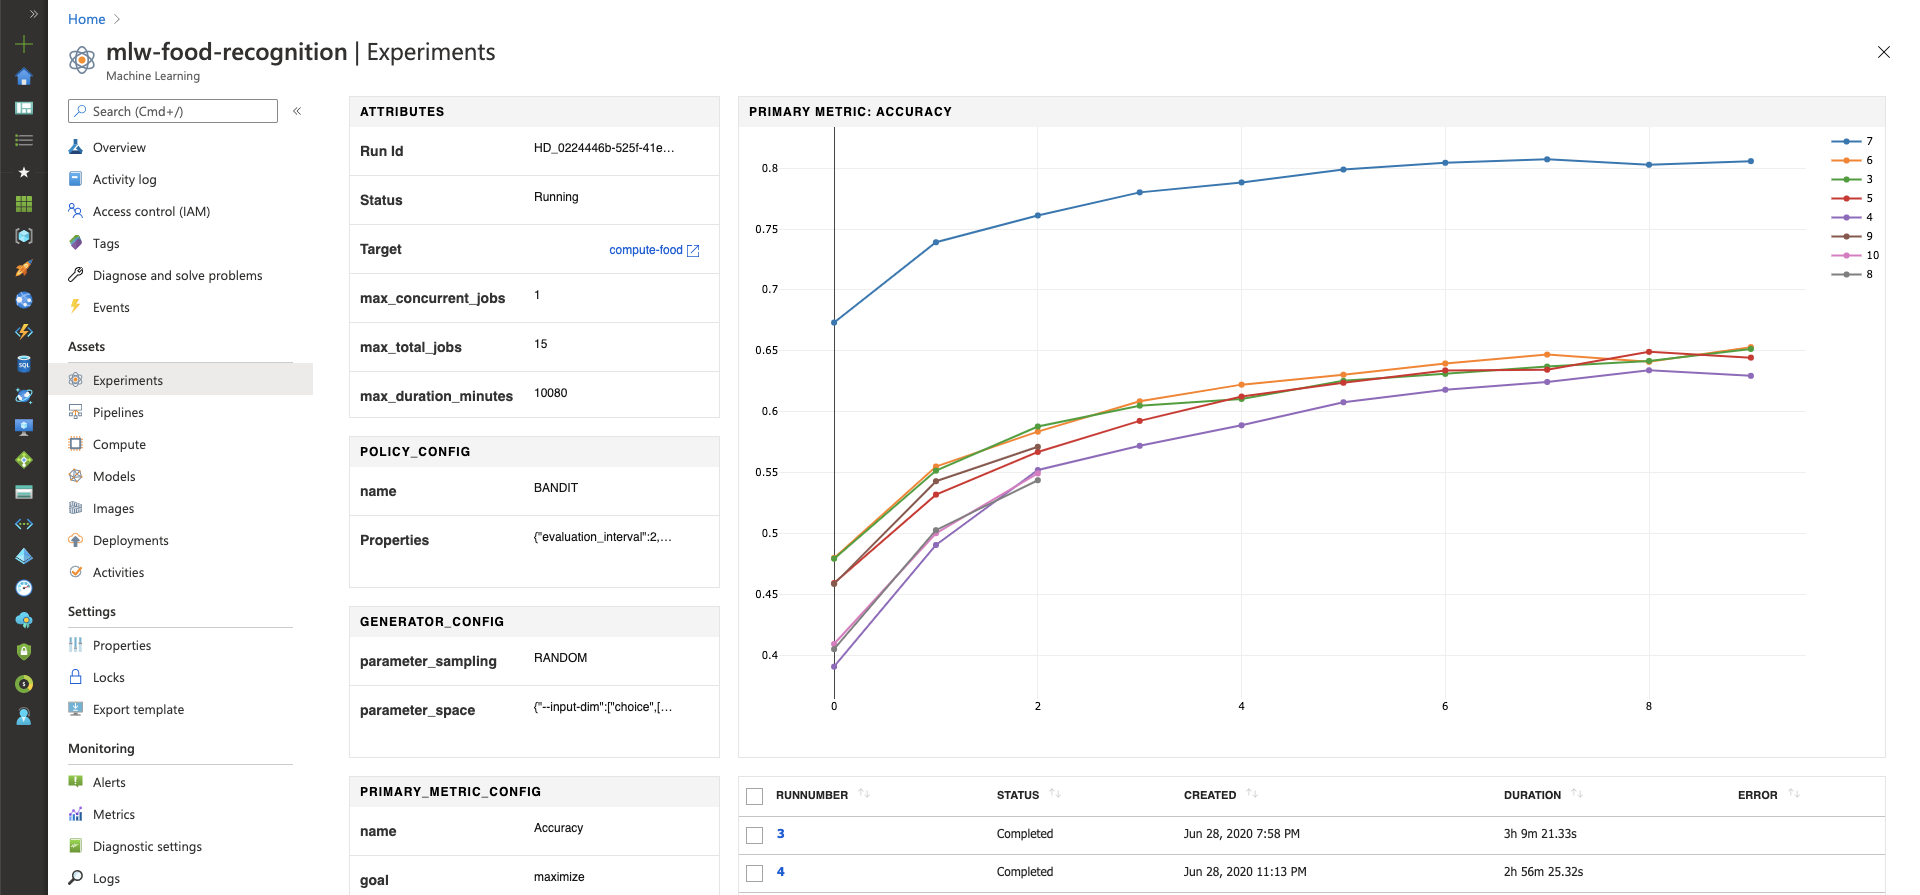
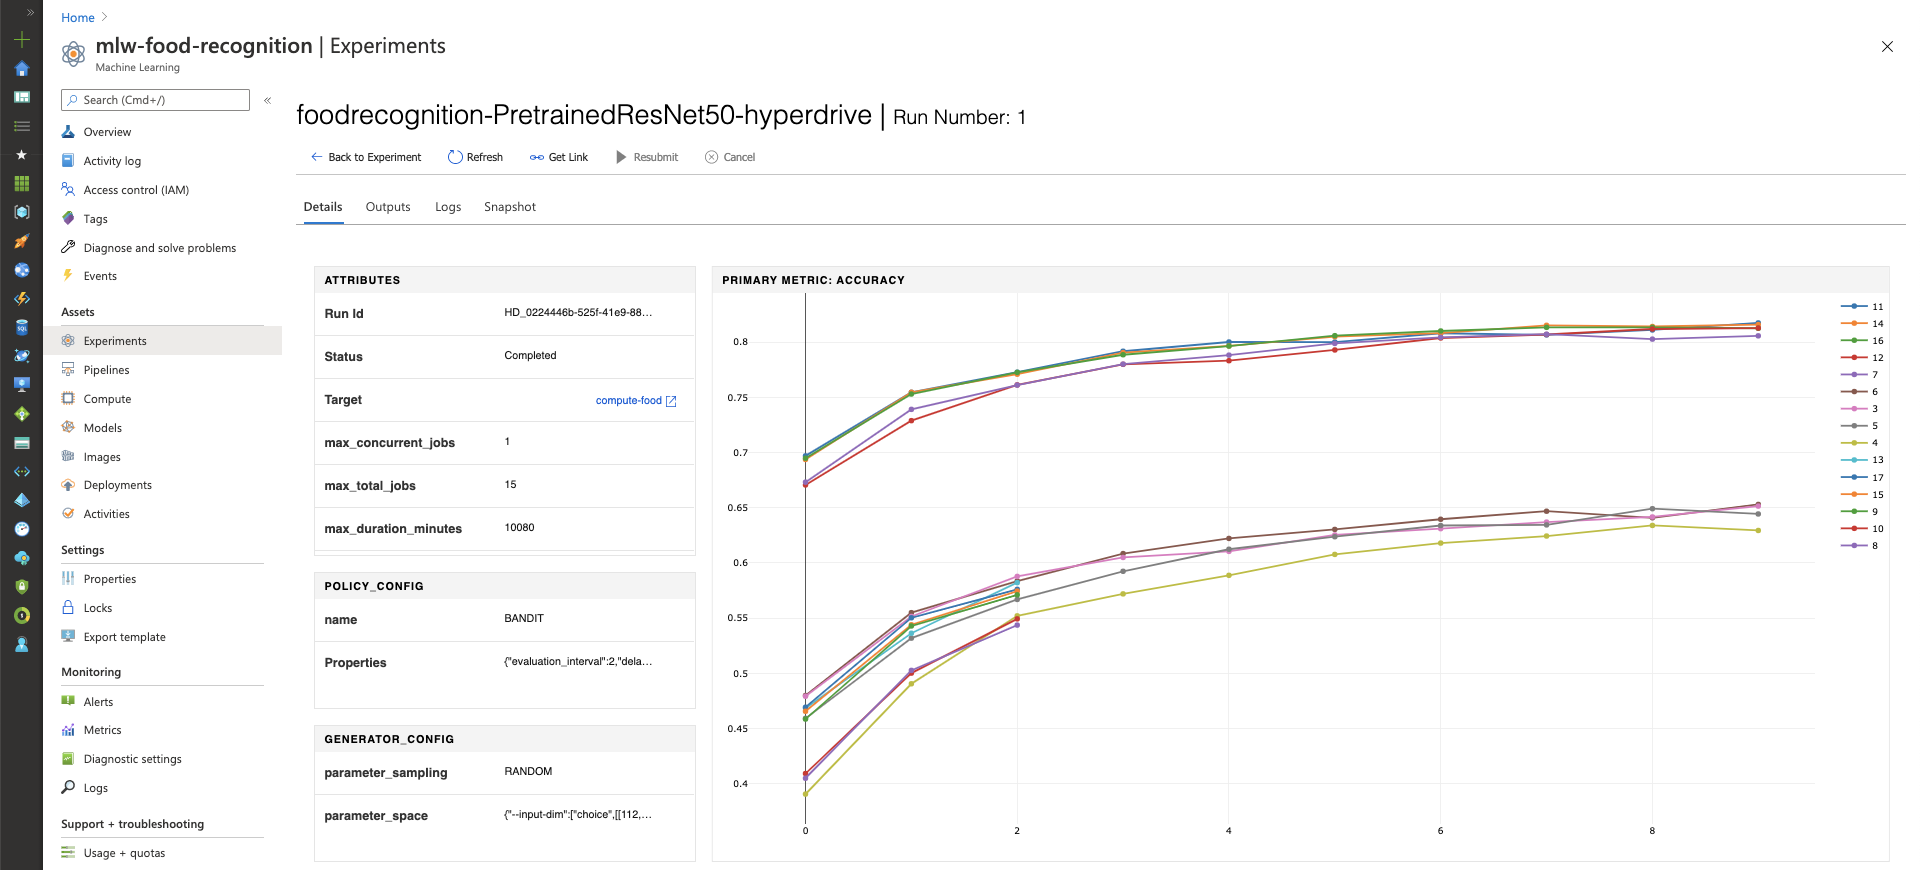
README.md update

diff --git a/src/config.py b/src/config.py
@@ -58,7 +58,7 @@ class ModelConfig:
         "dropout": True,
         "dropout_begin": 0.2,
         "dropout_max": 0.5,
-        "final_average_pooling": False,
+        "final_average_pooling": True,
         "depth": 2,
     }
 

diff --git a/README.md b/README.md
@@ -137,6 +137,13 @@ Endpoint to launch an experiment on AzureML. <br>
 Required configuration read from [```src/config.py```](src/config.py) file, 
 as well as the entry training script (default: [```src/classification/training.py```](src/classification/training.py)).
 
+#### Regular experiment
+
+If the configuration parameter ```hyperdrive``` is set to False, a regular training experiment is launched, with the hyperparameters fixed in [```src/config.py```](src/config.py).
+The underlying TensorFlow model will be saved inside the experiment run scope.
+
+<img src="/images/experiment.png"  width="100%" height="100%"> <br>
+
 #### HyperDrive experiment
 
 If the configuration parameter ```hyperdrive``` is set to True, an HyperDrive hyperparameter search will be performed. <br>
@@ -146,21 +153,24 @@ Several major hyperparameters can thus be tuned automatically, here is a non-exh
 - the number of additional dense layers
 - ...
 
+Here is an exemple with 15 differently parametrized jobs:
+
 <img src="/images/hyperdrive.png"  width="100%" height="100%"> <br>
+<img src="/images/hyperdrive_metrics.png"  width="100%" height="100%"> <br>
 
-#### Regular experiment
-
-If the configuration parameter ```hyperdrive``` is set to False, a regular training experiment is launched, with the hyperparameters fixed in [```src/config.py```](src/config.py).
-The underlying TensorFlow model will be saved inside the 
-
-<img src="/images/experiment.png"  width="100%" height="100%"> <br>
+We can then choose our best run so far according to the primary metric we wanted to maximize:
 <img src="/images/metrics.png"  width="100%" height="100%"> <br>
 
-We manage to have a final test accuracy of **81.18%**, and **84.25%** using Test Time Augmentation (TTA). <br>
+We manage to have a final test accuracy of **81.75%**, and **84.37%** using Test Time Augmentation (TTA). <br>
 TTA means we apply several different transformations to a single image, and average the predictions of the model for all of them. That give us a more reliable prediction at the expense of a higher inference time.
 
 ### Deploy a trained model on Azure Kubernetes Service
 
-Once we are satisfied with a given terminated experiment, we can register the underlying model and deploy it through AKS.
+Once we are satisfied with a given terminated experiment, we can register the underlying model and deploy it through AKS. <br>
+To achieve this, we need to know the ```run_id```:
 
-<img src="/images/experiment_with_id.png"  width="100%" height="100%"> <br>
+<img src="/images/hyperdrive_run.png"  width="100%" height="100%"> <br>
+
+```shell
+$ python -m app.register_and_deploy --run-id HD_0224446b-525f-41e9-8852-59d6a6e4f3c3_8
+```
